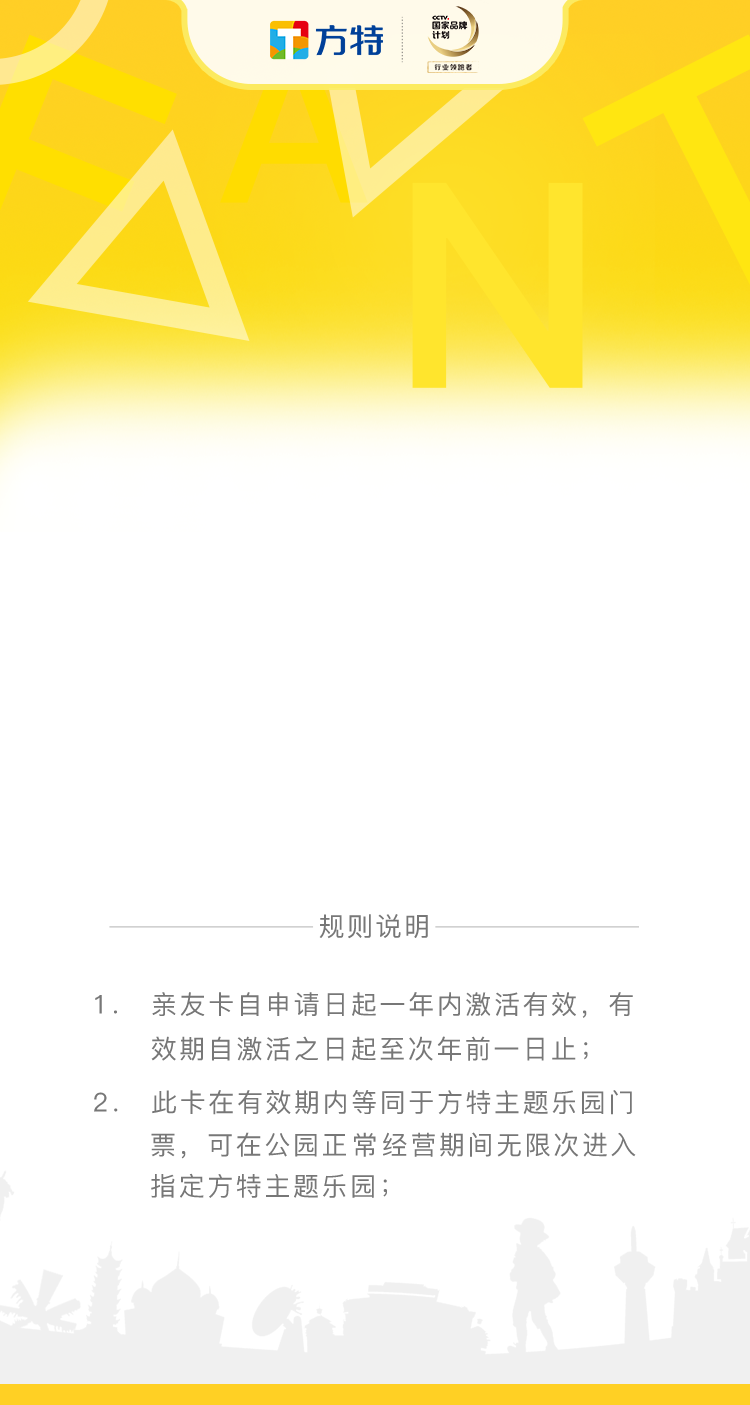
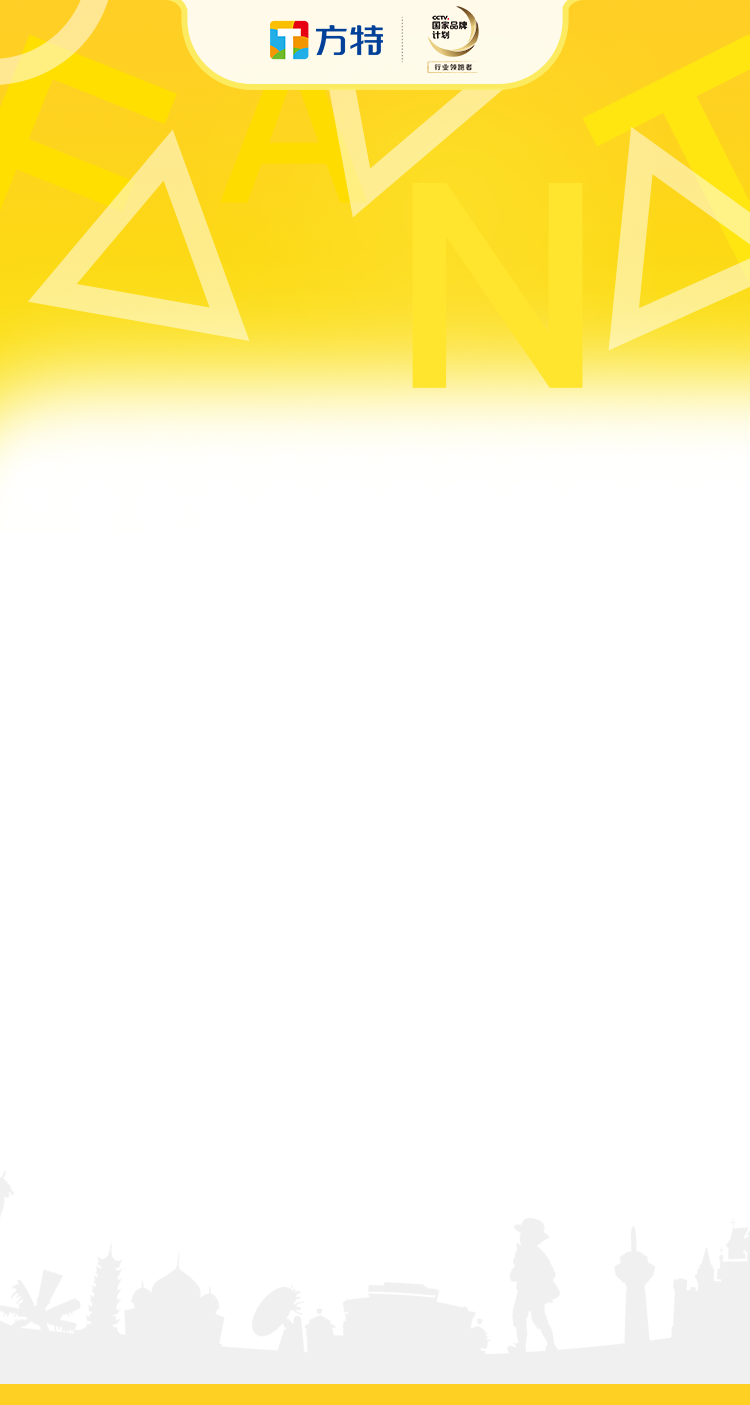
005

diff --git a/index.html b/index.html
@@ -29,6 +29,21 @@
 					<li class="boxContent"><span class="name" id="name"></span>送您一张方特亲友卡，您可凭此卡在一年内，免费游玩方特主题乐园，现在登录方特旅游APP即可使用。</li>
 					<li class="boxCard"><img src="img/ft-card.png" alt="亲友卡" /></li>
 					<li class="boxSubmit"><input type="button" class="button" value="查看使用" id="openApp" /></li>
+					<li class="boxRule">
+						<div class="title">
+							<i class="left"></i><span>规则说明</span><i class="right"></i>
+						</div>
+						<ul>
+							<li>
+								<span>1.</span>
+								<p>好友卡自申请日起一年内激活有效，有效期自激活之日起至次年前一日止；</p>
+							</li>
+							<li>
+								<span>2.</span>
+								<p>此卡在有效期间内等同于方特主题乐园门票，可在公园正常经营期间无限次进入指定方特主题乐园；</p>
+							</li>
+						</ul>
+					</li>
 				</ul>
 			</div>
 		</div>
@@ -47,16 +62,16 @@
 				//ios
 				if(navigator.userAgent.match(/(iPhone|iPod|iPad);?/i)) {
 					if(browser.match(/micromessenger/i)) {
-						alert("苹果微信")
+//						alert("苹果微信")
 						//微信内置浏览器
-						window.location.href = "fangtetravel://";
+						window.location.href = "fantawildtravel://";
 						window.setTimeout(function() {
 							window.location.href = "https://itunes.apple.com/us/app/cheng-shi-gao-er-fu/id1008696844?mt=8&uo=4";
 						}, 1000)
 						return
 					} else {
-						alert("苹果浏览器")
-						window.location.href = "fangtetravel://"; //ios app协议，由ios同事提供
+//						alert("苹果浏览器")
+						window.location.href = "fantawildtravel://"; //ios app协议，由ios同事提供
 						window.setTimeout(function() {
 							window.location.href = "https://itunes.apple.com/us/app/cheng-shi-gao-er-fu/id1008696844?mt=8&uo=4";
 						}, 2000)
@@ -66,15 +81,16 @@
 
 				if(navigator.userAgent.match(/android/i)) {
 					if(browser.match(/micromessenger/i)) {
-						alert("安卓微信")
+//						alert("安卓微信")
 						//Android
 						window.location.href = "leyou://hytch"; //安卓协议，由安卓同事提供
 						window.setTimeout(function() {
-							window.location.href = "http://a.app.qq.com/o/simple.jsp?pkgname=gr eenjoy.golf.app&g_f=991653"
+//							https://itunes.apple.com/us/app/998dian-wan-cheng/id1135278767?mt=8
+							window.location.href = "https://itunes.apple.com/us/app/998dian-wan-cheng/id1135278767?mt=8"
 						}, 2000)
 						return
 					} else {
-						alert("安卓浏览器")
+//						alert("安卓浏览器")
 						//Android
 						window.location.href = "leyou://hytch"; //安卓协议，由安卓同事提供
 						window.setTimeout(function() {

diff --git a/css/RelativesAndFriendsCard.less b/css/RelativesAndFriendsCard.less
@@ -55,6 +55,48 @@
                     font-family: "微软雅黑";
                 }
             }
+            li.boxRule {
+                margin-top: 2rem;
+                color: #999999;
+                width: 80%;
+                margin-left: 10%;
+                div.title {
+                    position: relative;
+                    margin-bottom: 0.5rem;
+                    i {
+                        height: 2px;
+                        width: 35%;
+                        background: #E0E0E0;
+                        display: inline-block;
+                        float: left;
+                        line-height: 2rem;
+                        position: absolute;
+                        top: 0.4rem;
+                    }
+                    i.left {
+                        left: 0;
+                    }
+                    i.right {
+                        right: 0;
+                    }
+                }
+                ul {
+                    li {
+                        span {
+                            display: block;
+                            float: left;
+                            width: 10%;
+                            text-align: left;
+                        }
+                        p {
+                            display: inline-block;
+                            float: left;
+                            width: 90%;
+                            text-align: left;
+                        }
+                    }
+                }
+            }
         }
     }
 }
